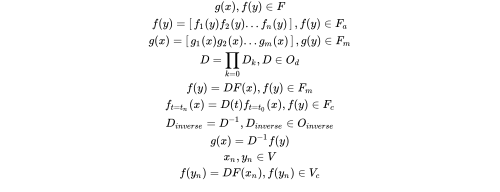
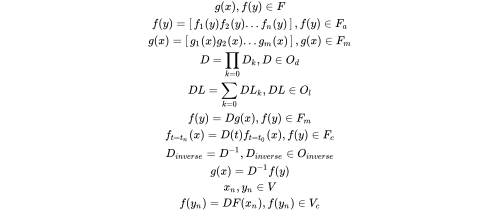
add linear theory

Changed region(s): [[0.3, 0.0, 0.72, 0.9375]]

diff --git a/doc/operator.tex b/doc/operator.tex
@@ -14,9 +14,10 @@ g_1(x)
 g_2(x)
 ...
 g_m(x)
-\end{bmatrix}, g(y)∈F_m\\
+\end{bmatrix}, g(x)∈F_m\\
 D = \prod_{k=0} D_k, D∈O_d\\
-f(y) = D F(x), f(y)∈F_m\\
+DL = \sum_{k=0} DL_k, DL∈O_l\\
+f(y) = D g(x), f(y)∈F_m\\
 f_{t=t_n}(x) = D(t) f_{t=t_0}(x), f(y)∈F_c\\
 D_{inverse} = D^{-1}, D_{inverse}∈O_{inverse}\\
 g(x) = D^{-1} f(y)\\

diff --git a/README.md b/README.md
@@ -1,4 +1,4 @@
-teaos (0.0.4)
+teaos (0.0.5)
 ===
 
 use local npm package
@@ -85,9 +85,10 @@ Theory
 
 - F: function
 - F_a: aspected function
-- F_m: composited function
-- F_c: context
-- O_d: operator
+- F_m: composited function (Set model)
+- F_c: context (ex. commit, p2p, probe, loging, Kalman filter)
+- O_d: operator (ex. integral, decode/encode)
+- O_l: linear operator (ex. step function, matrix)
 - O_{inverse}: inversable operator
 - V: variable
 - V_c: composited variable
@@ -96,6 +97,8 @@ Theory
 History
 ---
 
+- version 0.0.5
+  - Add Theory
 - version 0.0.4
   - SVG to PNG
 - version 0.0.3
